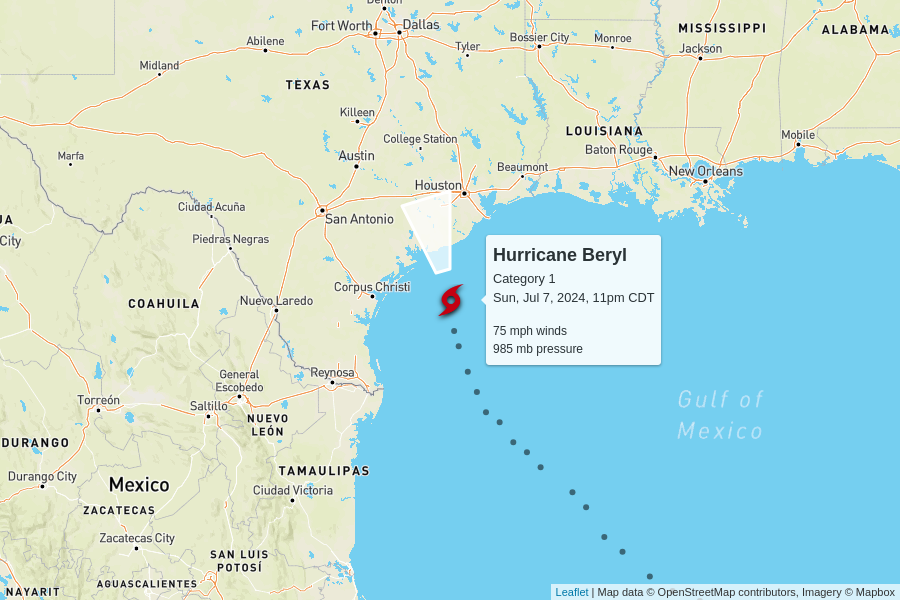
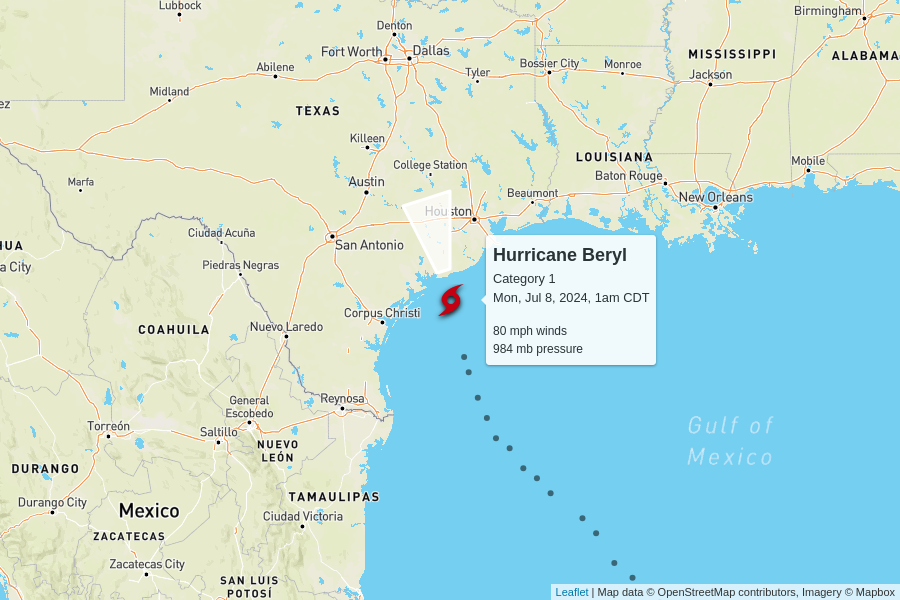
automatic update

diff --git a/docs/index.html b/docs/index.html
@@ -102,7 +102,7 @@
         <td colspan="6" class="storm category-1" >
           <h2>
             Hurricane Beryl - Category 1
-            <p class="updated">last updated <span data-time>2024-07-08T04:00:00.000Z</span></p>
+            <p class="updated">last updated <span data-time>2024-07-08T06:00:00.000Z</span></p>
           </h2>
         </td>
       </tr>
@@ -117,8 +117,8 @@
       </tr>
       <tr>
         <td class="spacer"></td>
-        <td>75 mph<br>+5 mph since last update</td>
-        <td>985 mb<br>-1 mb since last update</td>
+        <td>80 mph<br>+5 mph since last update</td>
+        <td>984 mb<br>-1 mb since last update</td>
         <td>
           10 mph to the north-northwest
           <br/>
